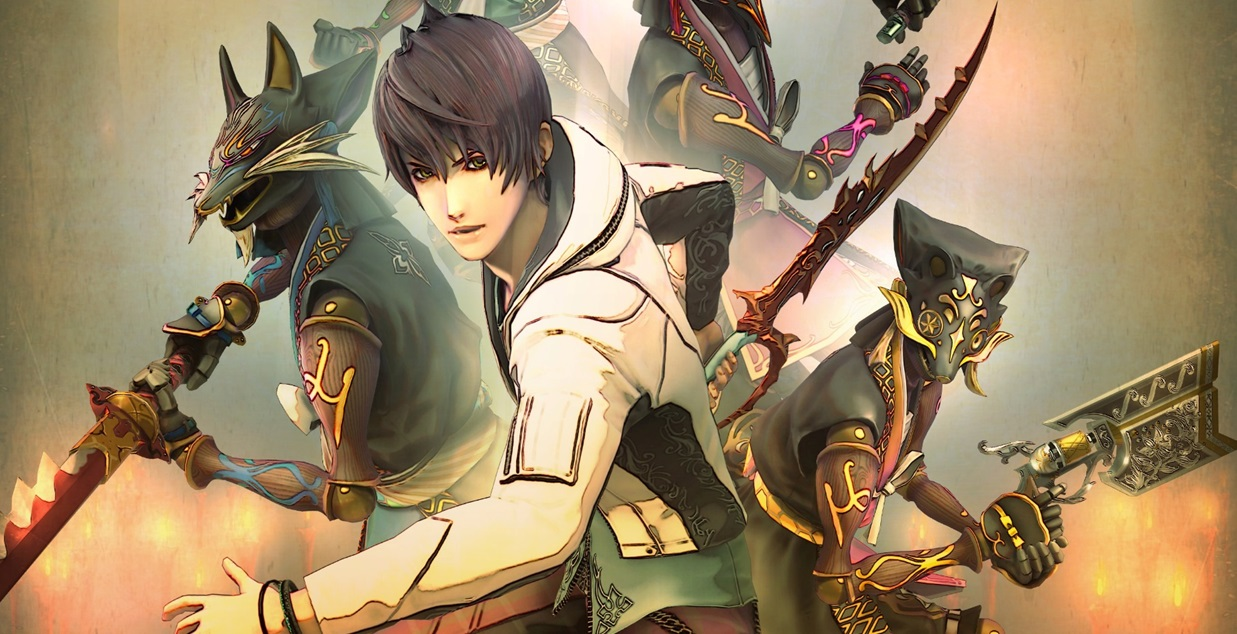
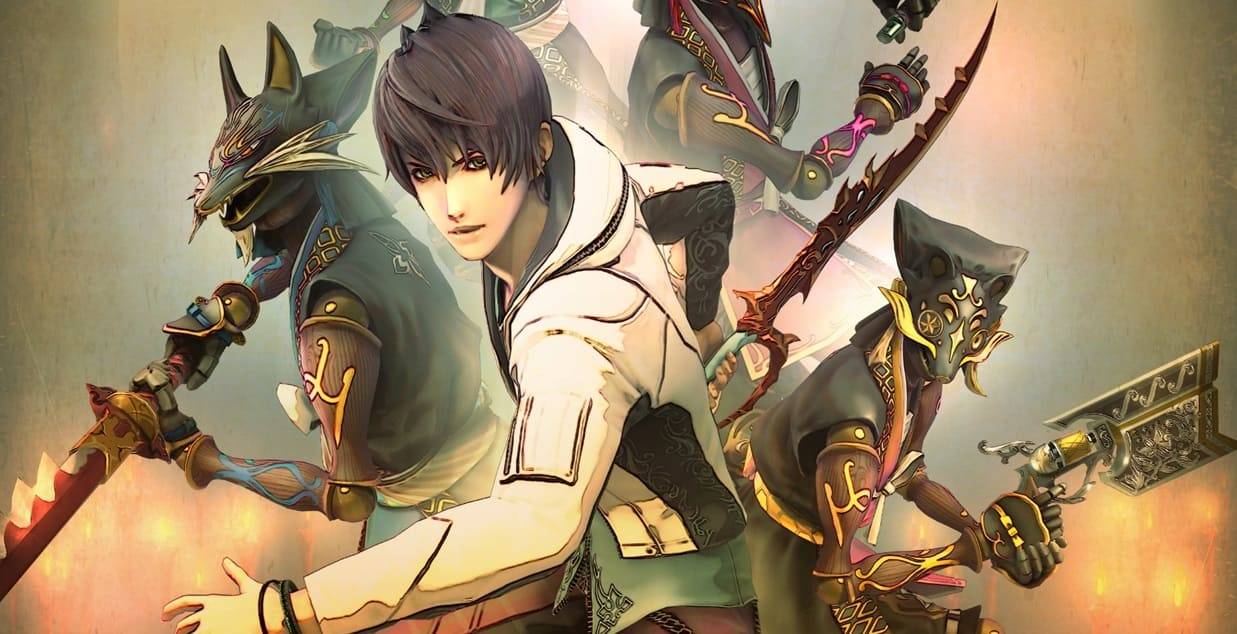
サガエメ情報追加

diff --git a/contents/emerald/before_release/chara.html b/contents/emerald/before_release/chara.html
@@ -17,7 +17,7 @@
     <meta property="og:url" content="https://taumax-github.github.io/sagamax/contents/emerald/before_release/chara.html" /> <!--記事のURL-->
     <meta property="og:title" content="サガエメラルドビヨンドのリリース前情報 主人公以外のキャラクター達" /> <!--記事のタイトル-->
     <meta property="og:description" content="サガエメラルドビヨンド リリース前情報 主人公以外のキャラクター達について" /> <!--記事の要約（ディスクリプション）-->
-    <meta property="og:image" content="https://taumax-github.github.io/sagamax/images/icon_twitter_card.png" /> <!--画像のURL-->
+    <meta property="og:image" content="https://taumax-github.github.io/sagamax/contents/emerald/twitter_card/twitter_card_chara.jpg" /> <!--画像のURL-->
 
     <link rel="icon"       href="../../../images/favicon.ico">
     <link rel="stylesheet" href="../../../css/style.css">
@@ -303,6 +303,14 @@
       <br/>
       【プレイアブルキャラクター】ドロレス<br/>
       <blockquote class="twitter-tweet"><p lang="ja" dir="ltr">💡<a href="https://twitter.com/hashtag/%E3%82%B5%E3%82%AC%E3%82%A8%E3%83%A1?src=hash&amp;ref_src=twsrc%5Etfw">#サガエメ</a> 【プレイアブルキャラクター】ドロレス<br><br>主人公を死んだ主の復活した姿と勘違いしてついてくる。<br>従順なメイドのようで、実際はデスメイド。デスメタルをノリノリで歌う。<br><br>公式サイト☞<a href="https://t.co/F5TUOz0jo4">https://t.co/F5TUOz0jo4</a> <a href="https://t.co/vHcysGhSzJ">pic.twitter.com/vHcysGhSzJ</a></p>&mdash; サガ 公式 (@Romasaga2_PR) <a href="https://twitter.com/Romasaga2_PR/status/1769649945571729439?ref_src=twsrc%5Etfw">March 18, 2024</a></blockquote> <script async src="https://platform.twitter.com/widgets.js" charset="utf-8"></script>
+
+      <br/>
+      【プレイアブルキャラクター】グィネヴィア<br/>
+      <blockquote class="twitter-tweet"><p lang="ja" dir="ltr">💡<a href="https://twitter.com/hashtag/%E3%82%B5%E3%82%AC%E3%82%A8%E3%83%A1?src=hash&amp;ref_src=twsrc%5Etfw">#サガエメ</a> 【プレイアブルキャラクター】グィネヴィア<br><br>罪を償う為に迷い人の案内人をしているという女。何か裏がありそうだが・・・<br><br>公式サイト☞<a href="https://t.co/F5TUOz0RdC">https://t.co/F5TUOz0RdC</a> <a href="https://t.co/MXOe3BThK2">pic.twitter.com/MXOe3BThK2</a></p>&mdash; サガ 公式 (@Romasaga2_PR) <a href="https://twitter.com/Romasaga2_PR/status/1780159203904217241?ref_src=twsrc%5Etfw">April 16, 2024</a></blockquote> <script async src="https://platform.twitter.com/widgets.js" charset="utf-8"></script>
+
+      <br/>
+      【プレイアブルキャラクター】吟遊詩人<br/>
+      <blockquote class="twitter-tweet"><p lang="ja" dir="ltr">💡<a href="https://twitter.com/hashtag/%E3%82%B5%E3%82%AC%E3%82%A8%E3%83%A1?src=hash&amp;ref_src=twsrc%5Etfw">#サガエメ</a> 【プレイアブルキャラクター】吟遊詩人<br><br>王都アヴァロンの王宮前広場で観光客相手に様々な詩を吟じる吟遊詩人メカ。<br>性格はかなりクセがある。<br><br>公式サイト☞<a href="https://t.co/F5TUOz0RdC">https://t.co/F5TUOz0RdC</a> <a href="https://t.co/FX0sZTlnC0">pic.twitter.com/FX0sZTlnC0</a></p>&mdash; サガ 公式 (@Romasaga2_PR) <a href="https://twitter.com/Romasaga2_PR/status/1780521589748154605?ref_src=twsrc%5Etfw">April 17, 2024</a></blockquote> <script async src="https://platform.twitter.com/widgets.js" charset="utf-8"></script>
 
       <br><br>
       <!-- Google AdSense -->

diff --git a/contents/emerald/before_release/species.html b/contents/emerald/before_release/species.html
@@ -17,7 +17,7 @@
     <meta property="og:url" content="https://taumax-github.github.io/sagamax/contents/emerald/before_release/species.html" /> <!--記事のURL-->
     <meta property="og:title" content="サガエメラルドビヨンドのリリース前情報 種族について" /> <!--記事のタイトル-->
     <meta property="og:description" content="サガエメラルドビヨンド リリース前情報 種族について" /> <!--記事の要約（ディスクリプション）-->
-    <meta property="og:image" content="https://taumax-github.github.io/sagamax/images/icon_twitter_card.png" /> <!--画像のURL-->
+    <meta property="og:image" content="https://taumax-github.github.io/sagamax/contents/emerald/twitter_card/twitter_card_species.jpg" /> <!--画像のURL-->
 
     <link rel="icon"       href="../../../images/favicon.ico">
     <link rel="stylesheet" href="../../../css/style.css">
